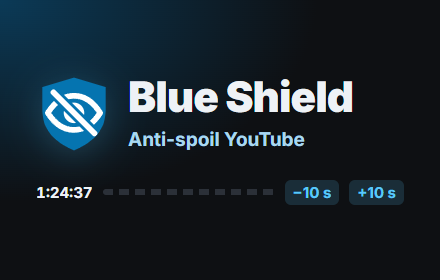
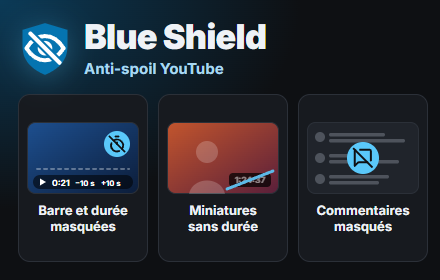
Fiche du Store : description neutre et nouvelle vignette
La description liste ce que fait l'extension, en sections, sans récit.
Le résumé du manifest dit la même chose en une ligne. La petite image
promotionnelle montre les trois fonctions principales en vectoriel.

diff --git a/store/fiche.md b/store/fiche.md
@@ -6,13 +6,15 @@
 
 1. Compte développeur Chrome Web Store : 5 $ une fois (`chrome.google.com/webstore/devconsole`).
 2. `node tools/build-zip.mjs` → `dist/blue-shield-1.0.0.zip`.
-3. URL de la politique de confidentialité, à coller dans le formulaire :
-   `https://v-p-l.github.io/blue-shield/privacy.html` (source : `docs/privacy.html`, publiée par
-   GitHub Pages à chaque push sur `main`).
+3. URL de la politique de confidentialité : `https://v-p-l.github.io/blue-shield/privacy.html`
+   (source : `docs/privacy.html`, publiée par GitHub Pages à chaque push sur `main`). Elle ne se
+   colle pas dans la fiche mais dans l'onglet **Pratiques de confidentialité** du menu de gauche,
+   tout en bas, champ « URL des règles de confidentialité ».
 4. Visuels, dans `store/visuels/` : les 5 captures 1280×800, à téléverser dans cet ordre
    (`capture-1-lecteur.png`, `capture-2-miniatures.png`, `capture-3-commentaires.png`,
-   `capture-4-flou.png`, `capture-5-options.png`), et la petite vignette promo
-   (`vignette-440x280.png`).
+   `capture-4-flou.png`, `capture-5-options.png`), et la petite image promotionnelle
+   (`vignette-440x280.png`). L'image promotionnelle « marquee » (1400×560) est facultative :
+   elle ne sert que si Google met l'extension en avant sur la page d'accueil du Store.
 
 Ordre de mise en avant, partout (visuels, description) : la durée qui disparaît du lecteur,
 puis des miniatures, puis les commentaires ; le reste après.
@@ -21,37 +23,51 @@ puis des miniatures, puis les commentaires ; le reste après.
 
 Blue Shield - anti-spoil YouTube
 
-## Description courte (132 caractères maximum)
+## Résumé (132 caractères maximum)
 
-Cache la durée, la barre de progression et les commentaires des vidéos, chaîne par chaîne. Regarde un match sans savoir s'il est fini.
+Le Store le lit dans le champ `description` de `manifest.json` : le modifier ici ne suffit pas.
+
+```text
+Masque la durée, la barre de progression et les commentaires des vidéos YouTube, chaîne par chaîne.
+```
 
 ## Description complète
 
-Tu regardes un replay de match en 3 vidéos. La barre de progression t'apprend qu'il reste
-10 minutes : tu sais déjà que la partie est pliée. Blue Shield enlève ce qui te spoile.
+À copier tel quel : chaque ligne est un paragraphe ou une puce.
 
-Sur les chaînes que tu choisis, et seulement sur celles-là :
+```text
+Blue Shield masque la durée des vidéos YouTube : la barre de progression, le timer et le badge de durée des miniatures.
 
-• La barre de progression, l'aperçu au survol et la heatmap disparaissent.
-• La durée totale est retirée du lecteur : il ne reste que le temps écoulé.
-• Quatre boutons remplacent la barre pour te déplacer : −1 min, −10 s, +10 s, +1 min.
-• Le mode « temps restant » et les touches 0–9, Début et Fin sont neutralisés (←, →, J et L
-  continuent de fonctionner).
-• Les chapitres sont masqués, dans le lecteur comme dans la description.
-• Les contrôles média de Windows affichent une durée factice.
-• Sur les miniatures, le badge de durée et la barre rouge « déjà vu » disparaissent — sur la
-  page de la chaîne, dans la recherche, sur l'accueil et dans les suggestions.
-• Les commentaires sont masqués ; un bouton les réaffiche quand tu as fini.
-• En option, par chaîne : flouter les miniatures et les titres.
+Tu choisis les chaînes concernées dans le popup. Les autres chaînes restent intactes.
 
-Un bouton œil, dans le lecteur, réaffiche la durée après confirmation — pour cette vidéo
-seulement. Plein écran, mode cinéma et miniplayer sont couverts. La durée des publicités
-reste visible.
+DANS LE LECTEUR
+- Barre de progression masquée, avec l'aperçu au survol et la heatmap
+- Durée totale retirée : seul le temps écoulé reste affiché
+- Boutons pour se déplacer : −1 min, −10 s, +10 s, +1 min
+- Raccourcis qui révèlent la durée bloqués : touches 0 à 9, Début, Fin, mode « temps restant »
+- Chapitres masqués
+- Durée factice dans les contrôles média de Windows
 
-Gratuit, sans compte, sans publicité, sans suivi. Rien ne sort de ton navigateur : ta liste de
-chaînes est stockée par Chrome et suit ton compte Chrome si la synchronisation est activée.
+SUR LES MINIATURES
+- Badge de durée et barre « déjà vu » masqués
+- Sur la page de la chaîne, dans la recherche, sur l'accueil et dans les suggestions
 
-Français et anglais. Thème sombre ou clair.
+COMMENTAIRES
+- Commentaires et chat en replay masqués
+- Un bouton les réaffiche
+
+EN OPTION, PAR CHAÎNE
+- Flouter les miniatures
+- Flouter les titres
+
+Un bouton dans le lecteur réaffiche la durée de la vidéo en cours.
+Plein écran, mode cinéma et miniplayer sont couverts. La durée des publicités reste visible.
+
+Gratuit, sans compte, sans publicité, sans suivi. Les réglages restent dans le navigateur.
+Français et anglais. Thème clair ou sombre.
+
+YouTube est une marque de Google LLC. Blue Shield n'est pas affilié à YouTube.
+```
 
 ## Catégorie
 
